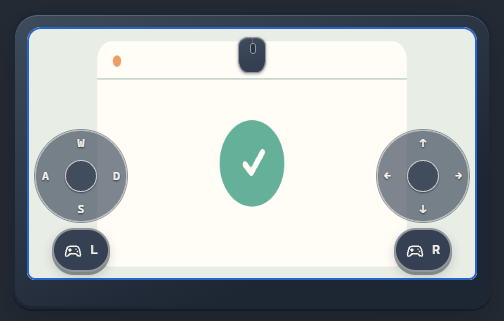
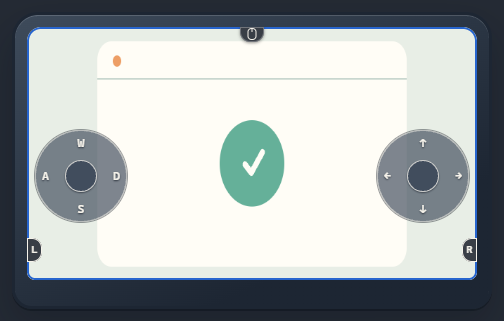
fix(remote): keep open joystick pads available when idle

Changed region(s): [[0.0298, 0.6854, 0.2381, 0.8723], [0.7738, 0.6854, 0.9524, 0.8723], [0.4464, 0.0623, 0.5357, 0.2492]]

diff --git a/src/client/components/living/remote-control.css b/src/client/components/living/remote-control.css
@@ -75,21 +75,22 @@
 }
 .lr-remote-keyboard-settings > summary { min-height: var(--control-compact-size); color: var(--ink); font-size: 13px; font-weight: 650; }
 .lr-remote-settings-fields { display: grid; padding-inline: 8px; }
-.lr-remote-settings-fields > :is(.lr-remote-shortcut, .lr-remote-stick-setting, .lr-switch-item) {
+.lr-remote-settings-fields > :is(.lr-remote-shortcut, .lr-switch-item) {
   display: grid; grid-template-columns: minmax(0, 1fr) auto; align-items: center;
   gap: 6px 14px; min-width: 0; min-height: var(--control-compact-size); margin: 0; padding: 6px 0;
 }
 .lr-remote-settings-fields > * + * { border-top: 1px solid var(--line); }
-.lr-remote-settings-fields :is(.lr-remote-shortcut label, .lr-remote-setting-label, .lr-switch-item > label) {
+.lr-remote-settings-fields > .lr-choice-field { padding-block: 8px; }
+.lr-remote-settings-fields :is(.lr-remote-shortcut label, .lr-switch-item > label) {
   display: inline-flex; align-items: center; gap: 6px; margin: 0;
   color: var(--ink); font-size: 13px; font-weight: 600; white-space: normal;
 }
-.lr-remote-settings-fields :is(.lr-remote-shortcut label, .lr-remote-setting-label) svg { flex: none; color: var(--muted); }
+.lr-remote-settings-fields .lr-remote-shortcut label svg { flex: none; color: var(--muted); }
 .lr-remote-settings-fields > .lr-switch-item > :is(svg, label) { grid-area: 1 / 1; }
 .lr-remote-settings-fields > .lr-switch-item > .lr-switch { grid-area: 1 / 2; justify-self: end; }
 .lr-remote-settings-fields > .lr-remote-game-mouse { margin: 0; justify-content: end; padding-block: 6px; }
 @container remote-keyboard-settings (max-width: 32ch) {
-  .lr-remote-settings-fields > :is(.lr-remote-shortcut, .lr-remote-stick-setting) { grid-template-columns: 1fr; justify-items: start; }
+  .lr-remote-settings-fields > .lr-remote-shortcut { grid-template-columns: 1fr; justify-items: start; }
 }
 .lr-remote-keyboard .lr-remote-key-pages { --selection-item-size: calc(var(--control-compact-size) - 12px); display: grid; grid-template-columns: repeat(var(--lr-segments), minmax(0, 1fr)); margin-bottom: 12px; }
 .lr-remote-keyboard .lr-remote-key-pages button { min-width: 0; padding: 4px 8px; }
@@ -196,9 +197,14 @@
 :is([data-reduced-motion], [data-comic-reduced-motion]) .lr-remote-mouse-widget,
 :is([data-reduced-motion], [data-comic-reduced-motion]) .lr-remote-mouse-widget > *,
 :is([data-reduced-motion], [data-comic-reduced-motion]) .lr-remote-mouse > .lr-remote-mouse-minimize { transition: none; }
-.lr-remote-direction { position: absolute; inset-inline-start: 8px; bottom: 8px; display: grid; justify-items: center; align-items: end; row-gap: 6px; pointer-events: none; }
-.lr-remote-direction[data-side="right"] { inset-inline-start: auto; inset-inline-end: 8px; }
-.lr-remote-direction > .lr-remote-stick { grid-row: 1; }
+.lr-remote-direction {
+  --stick-size: clamp(72px, 24vmin, 92px);
+  position: absolute; inset-inline-start: 0; bottom: 8px;
+  display: grid; grid-template-areas: "pad" "handle"; inline-size: calc(var(--stick-size) + 16px);
+  justify-items: center; align-items: center; row-gap: 6px; pointer-events: none;
+}
+.lr-remote-direction[data-side="right"] { inset-inline-start: auto; inset-inline-end: 0; }
+.lr-remote-direction > .lr-remote-stick { grid-area: pad; }
 .lr-remote-direction:not([data-docked]) > button {
   --control-hover-transform: none;
   --control-press-transform: none;
@@ -207,11 +213,11 @@
   justify-content: center;
 }
 .lr-remote-direction:not([data-docked]) > button > span { width: 1ch; text-align: center; font-family: var(--mono); }
-.lr-remote-direction > button { grid-row: 2; min-width: 44px; min-height: 44px; }
+.lr-remote-direction > button { grid-area: handle; min-width: var(--control-compact-size); min-height: var(--control-compact-size); }
 .lr-remote-direction > button, .lr-remote-stick { pointer-events: auto; touch-action: none; }
 .lr-remote-stick {
   position: relative;
-  width: clamp(72px, 24vmin, 92px);
+  width: var(--stick-size);
   aspect-ratio: 1;
   border-radius: 50%;
   background: rgb(var(--piik-dark-paper-rgb) / .64);
@@ -238,23 +244,27 @@
 }
 .lr-remote-stick[data-contact] i { border-color: currentColor; }
 
-.lr-remote-direction[data-docked="left"] { inset-inline-start: 0; }
-.lr-remote-direction[data-docked="right"] { inset-inline-end: 0; }
-.lr-remote-direction[data-docked]:not([data-touch-only]) { display: block; }
-.lr-remote-direction[data-touch-only][data-side="left"] > button { justify-self: start; }
-.lr-remote-direction[data-touch-only][data-side="right"] > button { justify-self: end; }
+.lr-remote-direction[data-docked="left"] > button { justify-self: start; }
+.lr-remote-direction[data-docked="right"] > button { justify-self: end; }
 /* Keep both edge pulls clear of the playback bar, including on narrow screens. */
-.lr-tv-screen:has(> .lr-playback) > .lr-remote-input-surface .lr-remote-direction[data-touch-only] {
+.lr-tv-screen:has(> .lr-playback) > .lr-remote-input-surface .lr-remote-direction {
+  --handle-width: calc(var(--control-compact-size) + 16px);
+  --stick-size: min(clamp(72px, 24vmin, 92px), calc(50cqw - var(--handle-width) - 8px));
   bottom: calc(var(--control-compact-size) + 24px);
-  column-gap: 4px;
+  inline-size: auto; column-gap: 4px;
+  grid-template: "handle pad" var(--stick-size) / var(--handle-width) var(--stick-size);
 }
-.lr-tv-screen:has(> .lr-playback) > .lr-remote-input-surface .lr-remote-direction[data-touch-only] > * { grid-row: 1; }
-.lr-tv-screen:has(> .lr-playback) > .lr-remote-input-surface .lr-remote-direction[data-touch-only][data-side="left"] > .lr-remote-stick,
-.lr-tv-screen:has(> .lr-playback) > .lr-remote-input-surface .lr-remote-direction[data-touch-only][data-side="right"] > button { grid-column: 2; }
+.lr-tv-screen:has(> .lr-playback) > .lr-remote-input-surface .lr-remote-direction[data-side="right"] {
+  grid-template-areas: "pad handle";
+  grid-template-columns: var(--stick-size) var(--handle-width);
+}
 .lr-remote-direction[data-touch-only] .lr-remote-stick {
   background: transparent;
   border-color: transparent;
   box-shadow: none;
+}
+.lr-remote-direction[data-touch-only]:not([data-docked]) .lr-remote-stick {
+  border-color: color-mix(in srgb, currentColor 52%, transparent);
 }
 .lr-remote-direction[data-touch-only] .lr-remote-stick > span { display: none; }
 .lr-remote-direction[data-touch-only] .lr-remote-stick > i {
@@ -265,7 +275,7 @@
   box-shadow: 0 0 0 1px var(--piik-dark-wall);
 }
 .lr-remote-direction[data-touch-only] .lr-remote-stick[data-contact] > i { visibility: visible; }
-.lr-remote-direction[data-touch-only] .lr-remote-stick-wake[aria-expanded="true"]::before {
+.lr-remote-stick-wake[aria-expanded="true"]::before {
   box-shadow: inset 0 0 0 1px var(--piik-dark-ink);
 }
 .lr-remote-direction > .lr-remote-stick-wake {

diff --git a/src/client/components/living/RemoteDirectionPad.tsx b/src/client/components/living/RemoteDirectionPad.tsx
@@ -13,19 +13,17 @@ export function RemoteDirectionPad({ right = false, touchOnly = false, keyboard,
   const thumb = useRef<HTMLElement>(null);
   const contact = useRef<number | null>(null);
   const [docked, setDocked] = useState(false);
-  const parked = docked && !touchOnly;
   const idle = useRef<ReturnType<typeof setTimeout> | undefined>(undefined);
   const park = useCallback(() => {
     clearTimeout(idle.current);
-    if (touchOnly) return;
     idle.current = setTimeout(() => {
       if (contact.current === null && !group.current?.querySelector(":focus-visible")) setDocked(true);
     }, PLAYER_CONTROLS_IDLE_MS);
-  }, [touchOnly]);
+  }, []);
   useEffect(() => {
-    if (!parked) park();
+    park();
     return () => clearTimeout(idle.current);
-  }, [park, open, parked]);
+  }, [park]);
   const label = t(right ? (keyboard ? "remote.mouseStick" : "remote.rightStick") : (keyboard ? "remote.directionPad" : "remote.leftStick"));
   const release = useCallback(() => {
     if (contact.current === null) return;
@@ -37,7 +35,7 @@ export function RemoteDirectionPad({ right = false, touchOnly = false, keyboard,
     pad.current?.style.removeProperty("--stick-y");
   }, [onMove]);
   useEffect(() => {
-    if (!open || parked) return;
+    if (!open) return;
     const doc = pad.current!.ownerDocument;
     const visibility = () => { if (doc.hidden) release(); };
     doc.defaultView?.addEventListener("blur", release);
@@ -47,7 +45,7 @@ export function RemoteDirectionPad({ right = false, touchOnly = false, keyboard,
       doc.removeEventListener("visibilitychange", visibility);
       release();
     };
-  }, [release, open, parked, touchOnly]);
+  }, [release, open]);
   function move(e: PointerEvent<HTMLDivElement>) {
     if (contact.current !== e.pointerId) return;
     const rect = e.currentTarget.getBoundingClientRect();
@@ -67,13 +65,13 @@ export function RemoteDirectionPad({ right = false, touchOnly = false, keyboard,
   }
   return <div ref={group} onFocus={() => clearTimeout(idle.current)} onBlur={park}
     onPointerDownCapture={() => clearTimeout(idle.current)} onPointerUpCapture={park} onPointerCancelCapture={park}
-    data-docked={parked || touchOnly ? (right ? "right" : "left") : undefined} data-touch-only={touchOnly || undefined}
+    data-docked={docked ? (right ? "right" : "left") : undefined} data-touch-only={touchOnly || undefined}
     className="lr-remote-direction" data-side={right ? "right" : "left"}>
-    <button type="button" className={parked || touchOnly ? "lr-remote-stick-wake" : "lr-btn is-compact"} aria-label={label} aria-expanded={open && !parked}
-      onClick={() => parked ? setDocked(false) : toggleOpen()}><Glyph name="gamepad" size={20} /><span aria-hidden="true">{right ? "R" : "L"}</span></button>
-    {open && !parked && <div ref={pad} className="lr-remote-stick" role="group" aria-label={label}
+    <button type="button" className={docked ? "lr-remote-stick-wake" : `lr-btn is-compact${open ? " is-on" : ""}`} aria-label={label} aria-expanded={open}
+      onClick={() => { setDocked(false); toggleOpen(); park(); }}><Glyph name="gamepad" size={20} /><span aria-hidden="true">{right ? "R" : "L"}</span></button>
+    {open && <div ref={pad} className="lr-remote-stick" role="group" aria-label={label}
       onPointerDown={e => {
-        if (contact.current !== null || e.button !== 0 || (touchOnly && e.pointerType !== "touch")) return;
+        if (contact.current !== null || e.button !== 0) return;
         e.preventDefault();
         contact.current = e.pointerId;
         e.currentTarget.setAttribute("data-contact", "");

diff --git a/src/client/pages/ControlsPreview.tsx b/src/client/pages/ControlsPreview.tsx
@@ -1,6 +1,6 @@
 import { useLayoutEffect, useRef, useState } from "react";
 import type { VideoFit, VideoRotation } from "../media/video-geometry";
-import { BackButton, Btn, Chip, FieldCap, NameTag, Pill, SwitchItem } from "../components/living/primitives";
+import { BackButton, Btn, Chip, FieldCap, NameTag, Pill, SegmentedChoice, SwitchItem } from "../components/living/primitives";
 import { Lcd, RoomChip, RoomCodePlaceholder, RoomAdmissionBadge } from "../components/living/RoomChip";
 import { CaptureSourcePicker, type NativeSourceList } from "../components/living/CaptureSourcePicker";
 import { LedStrip } from "../components/living/Header";
@@ -84,6 +84,7 @@ export function ControlsPreview() {
   const [launchPassword, setLaunchPassword] = useState("");
   const [launchLan, setLaunchLan] = useState("192.0.2.10");
   const [policy, setPolicy] = useState<"open" | "private">("open");
+  const [architecture, setArchitecture] = useState<"amd64" | "arm64">("amd64");
   const [roomPassword, setRoomPassword] = useState(false);
   const [inviteAvailable, setInviteAvailable] = useState(true);
   const [includeCredential, setIncludeCredential] = useState(true);
@@ -255,11 +256,8 @@ export function ControlsPreview() {
           comic="hint-policy-private" label={t("host.invite.credentialRequired")} /> : null}
         <p>{en ? "The website's architecture picker uses the same sliding style with native radio buttons. Arrow keys change the choice."
           : "官网的架构选择也复用滑动样式，使用原生单选项；聚焦后可用方向键切换。"}</p>
-        <fieldset className="lr-toggle">
-          <legend className="visually-hidden">{en ? "Download architecture" : "下载架构"}</legend>
-          <label><input type="radio" name="preview-architecture" value="amd64" defaultChecked /><span>x64</span></label>
-          <label><input type="radio" name="preview-architecture" value="arm64" /><span>ARM64</span></label>
-        </fieldset>
+        <SegmentedChoice label={en ? "Download architecture" : "下载架构"} value={architecture} onChange={setArchitecture}
+          options={[{ value: "amd64", label: "x64" }, { value: "arm64", label: "ARM64" }]} />
       </section>
       <section id="input-preview" className="cp-card">
         <header><span className="cp-number">03</span><h2>{en ? "Names, codes and small details" : "名字、房间号，还有小细节。"}</h2></header>

diff --git a/src/client/components/living/primitives.tsx b/src/client/components/living/primitives.tsx
@@ -36,21 +36,24 @@ export function Cap({ k }: { k: CopyKey }) {
 }
 
 export function SegmentedChoice<T extends string>({ label, describedBy, options, value, onChange }: {
-  label: CopyKey;
+  label: string;
   describedBy?: string;
-  options: readonly { value: T; label: CopyKey; icon: GlyphName }[];
+  options: readonly { value: T; label: string; icon?: GlyphName }[];
   value: T;
   onChange: (value: T) => void;
 }) {
   const name = useId();
-  const { t } = useCopy();
-  return <div className="lr-toggle" role="radiogroup" aria-label={t(label)} aria-describedby={describedBy}
-    style={{ "--lr-segments": options.length, "--lr-selected-index": options.findIndex(option => option.value === value) } as CSSProperties}>
-    {options.map(option => <label key={option.value}>
-      <input type="radio" name={name} value={option.value} aria-label={t(option.label)}
-        checked={value === option.value} onChange={() => onChange(option.value)} />
-      <span><Glyph name={option.icon} size={17} /><Cap k={option.label} /></span>
-    </label>)}
+  const { vis } = useCopy();
+  return <div className="lr-choice-field">
+    <span id={name + "-label"} className={vis ? "visually-hidden" : "lr-field-cap"}>{label}</span>
+    <div className="lr-toggle" role="radiogroup" aria-labelledby={name + "-label"} aria-describedby={describedBy}
+      style={{ "--lr-segments": options.length, "--lr-selected-index": options.findIndex(option => option.value === value) } as CSSProperties}>
+      {options.map(option => <label key={option.value}>
+        <input type="radio" name={name} value={option.value} aria-label={option.label}
+          checked={value === option.value} onChange={() => onChange(option.value)} />
+        <span>{option.icon && <Glyph name={option.icon} size={17} />}{(!vis || !option.icon) && option.label}</span>
+      </label>)}
+    </div>
   </div>;
 }
 

diff --git a/src/client/pages/RemoteControlsPreview.tsx b/src/client/pages/RemoteControlsPreview.tsx
@@ -112,8 +112,8 @@ export function RemoteControlsPreview({ joystick = false, guide = false, guidePo
   return <>{!joystick && <PermissionRequestPreview />}<section id={joystick ? "joystick-preview" : "remote-control-preview"} className="cp-section">
     {!guide && <header className="cp-section-head"><div>
       <h2>{joystick ? (en ? "Touch joysticks" : "触屏双摇杆") : t("remote.inputTools")}</h2>
-      {joystick ? <p>{en ? "Open L and R to try both sticks. Open Remote keyboard and use Stick mode to switch between keys and mouse or gamepad. Input stays on this page."
-        : "点 L、R 可分别展开摇杆。在远程键盘的「摇杆模式」中切换键鼠或手柄。输入仅显示在本页。"}</p>
+      {joystick ? <p>{en ? "Tap L or R to open a pad. Its button tucks away when idle. Drag either pad to try it, or tap its button again to close it. Change the mapping under Remote keyboard → Local controls."
+        : "点 L 或 R 打开杆盘。按钮贴边后仍可拖动杆盘，再点按钮就关闭。在「远程键盘 → 本机控制」中可切换键鼠或手柄。"}</p>
         : <p>{en ? "Expand the mini mouse and drag its lower half to move the pointer. Hold and move L or R to drag, or hold a button with one finger and move the lower half with another. Pinch or pan the picture with two fingers to adjust the local view. Tap the wheel to middle-click, swipe to scroll, or hold to drag. Try direct touch or the compact trackpad below. Input stays in the local log."
         : "展开迷你鼠标，拖动下半部移动光标。按住 L 或 R 后移动即可拖拽，也可用一指按住按钮、另一指拖动下半部。在画面上双指缩放或平移可调整本地视图。滚轮可轻点中击、滑动滚动、长按后拖动。下方可切换直接触摸或光标触控板，输入仅记录在本地。"}</p>
         }

diff --git a/src/client/components/living/RemoteKeyboard.tsx b/src/client/components/living/RemoteKeyboard.tsx
@@ -217,13 +217,10 @@ export function RemoteKeyboard({ input, close, mouseControl, touch, platform, on
       </summary>
       <div className="lr-remote-settings-fields">
         <RemoteShortcutSelect value={releaseKey} onChange={onReleaseKeyChange} mac={navigator.platform.startsWith("Mac")} />
-        {stickMode && <div className="lr-remote-stick-setting">
-          <span className="lr-remote-setting-label"><Glyph name="gamepad" size={16} />{vis ? null : t("remote.stickMode")}</span>
-          <SegmentedChoice label="remote.stickMode" value={stickMode.value} onChange={stickMode.onChange} options={[
-            { value: "keyboard", label: "remote.keyboardMouseMode", icon: "keyboard" },
-            { value: "gamepad", label: "remote.gamepadMode", icon: "gamepad" },
-          ]} />
-        </div>}
+        {stickMode && <SegmentedChoice label={t("remote.stickMode")} value={stickMode.value} onChange={stickMode.onChange} options={[
+          { value: "keyboard", label: t("remote.keyboardMouseMode"), icon: "keyboard" },
+          { value: "gamepad", label: t("remote.gamepadMode"), icon: "gamepad" },
+        ]} />}
         {stickVisibility && <SwitchItem label={t("remote.stickShowOnTouch")} icon="gamepad"
           checked={stickVisibility.checked} onChange={stickVisibility.onChange} />}
         {!panelWindow.detached && mouseControl}

diff --git a/src/client/components/living/PlaybackSettings.tsx b/src/client/components/living/PlaybackSettings.tsx
@@ -65,13 +65,10 @@ export function RemoteTouchSettings({ mode, onChange }: NonNullable<PlaybackSett
   const id = useId();
   const hint = mode === "direct" ? "remote.touchMode.directHint" : "remote.touchMode.trackpadHint";
   return <section aria-label={t("remote.touchMode")}>
-    <div className="lr-viewer-settings-heading">
-      <h3><Glyph name="mouse" size={17} /><span className={vis ? "visually-hidden" : undefined}>{t("remote.touchMode")}</span></h3>
-    </div>
-    <SegmentedChoice label="remote.touchMode" describedBy={vis ? undefined : `${id}-hint`}
+    <SegmentedChoice label={t("remote.touchMode")} describedBy={vis ? undefined : `${id}-hint`}
       value={mode} onChange={onChange} options={[
-        { value: "direct", label: "remote.touchMode.direct", icon: "tv" },
-        { value: "trackpad", label: "remote.touchMode.trackpad", icon: "mouse" },
+        { value: "direct", label: t("remote.touchMode.direct"), icon: "tv" },
+        { value: "trackpad", label: t("remote.touchMode.trackpad"), icon: "mouse" },
       ]} />
     {!vis && <p id={`${id}-hint`}>{t(hint)}</p>}
   </section>;

diff --git a/src/client/components/living/segmented-control.css b/src/client/components/living/segmented-control.css
@@ -1,5 +1,6 @@
 /* One track for language, settings and source tabs, including native radio
    groups. Callers own semantics, selection and content-specific proportions. */
+.lr-choice-field { display: grid; gap: 6px; min-width: 0; }
 .lr-toggle, .lr-lang {
   --lr-segments: 2;
   --lr-selected-index: 0;

diff --git a/docs/guide/remote-control.md b/docs/guide/remote-control.md
@@ -94,9 +94,9 @@ remain available without the gamepad driver.
 
 On a touchscreen, tap **Request control** in the playback bar. If the host approves requests individually, wait for them to select **Allow**. Once you have control, **L** and **R** appear on the playing picture. Touchscreen laptops work too.
 
-Tap **L** or **R** to open that stick. Lift your finger to center it while continuing to hold the other. Each stick slips to the edge after two seconds of inactivity. Tap its visible edge once to bring it back as you left it.
+Tap **L** or **R** to open that stick. Tap again to close it. Lift your finger to center the stick. When idle, the L and R buttons tuck against the picture edge. Each open pad stays in place and is ready for your next drag.
 
-To keep idle sticks transparent, turn on **Remote keyboard → Local controls → Show on touch**, then tap **L** or **R** to enable that side. Only the small stick thumb appears under your finger. Lift to hide it. Tap the same edge control again to close that stick and use ordinary touch input there.
+For a clearer view of the picture, turn on **Remote keyboard → Local controls → Show on touch**. Tap L or R and a thin ring briefly marks the pad. Press there to show the thumb and lift to hide it. Tap the same button again to restore ordinary touch input there.
 
 Open **Remote keyboard → Local controls → Stick mode** to set both sticks. In **Keys + mouse**, the left stick holds W, A, S or D and the right stick moves the mouse. When the Host supports gamepad input and the Viewer has no physical gamepad connected, choose **Gamepad** to send left and right stick input. Closing a stick, leaving the page or disconnecting releases the affected inputs. After reconnecting, select **Request control** again.
 

diff --git a/docs/guide/remote-control.zh-CN.md b/docs/guide/remote-control.zh-CN.md
@@ -73,9 +73,9 @@ Piik 不指定游戏中的玩家编号，请使用游戏自己的加入和分配
 
 在触摸屏上观看可远控的画面时，点播放栏里的 **请求控制**。如果房主设置了每次询问，等房主点 **允许控制**。取得控制权后，正在播放的画面下方会出现 **L** 和 **R**。带触摸屏的电脑也可以使用。
 
-点 **L** 或 **R** 展开对应的摇杆。松开手指后，这根摇杆会回中；另一根仍可继续按住。闲置两秒后摇杆会贴到画面边缘。点一下露出的边沿，就会恢复贴边前的状态。
+点 **L** 或 **R** 打开对应的摇杆，再点一次就关闭。松手后摇杆回中。闲置时，L、R 按钮会贴到画面边缘，打开的杆盘留在原位，可以继续拖动。
 
-想让摇杆平时透明，打开 **远程键盘 → 本机控制 → 仅触摸时显示**，再点 **L** 或 **R** 启用对应一侧。手指按住时只显示小摇杆头，松手就消失。点同一侧的边缘按钮可关闭摇杆，让这块画面恢复普通触控。
+想少遮一点画面，打开 **远程键盘 → 本机控制 → 仅触摸时显示**。点 L 或 R 时，细圈会短暂标出杆盘的位置。按住这个位置就能看到杆头，松手后它会隐藏。再点同一侧的按钮，这块画面就恢复普通触控。
 
 打开 **远程键盘 → 本机控制 → 摇杆模式** 可同时设置两根摇杆。**键鼠** 模式用左杆控制 W、A、S、D，右杆移动鼠标。房主支持手柄输入且观众没有连接实体手柄时，可以选 **手柄**，直接发送左右摇杆输入。收起摇杆、切出页面或连接中断都会释放相应输入。重新连接后，请再次点击 **请求控制**。
 

diff --git a/docs/standards/presentation-lifecycle.md b/docs/standards/presentation-lifecycle.md
@@ -252,12 +252,11 @@ follow the shared [motion grammar](./visual-language.md#motion-grammar).
 
 On touch devices, the two on-screen sticks are available while the current
 picture is playing and its authorized remote-control channel is ready. The
-left and right sticks start collapsed and expand independently. Idle sticks
-and the mini mouse tuck to the picture edge on the playback controls' timing.
-The stick thumb, direction marks and toggle share a centerline. In Show on
-touch mode, each opened side retains its hit area between touches and shows
-the thumb while held. Closing that side restores ordinary picture input there.
-In standard mode, tapping a parked handle brings its control back.
+left and right sticks start closed. Each L/R button toggles its pad in one
+tap, including from the picture edge. On the playback controls' idle timer
+only the buttons tuck away. Each open pad keeps its position and input area.
+In Show on touch mode, the pad briefly shows its outline when opened and
+shows the thumb while pressed. Closing that side restores ordinary picture input there.
 Remote keyboard owns the mapping for both sticks. Keyboard and mouse mode
 sends WASD and relative mouse movement. When a virtual gamepad is available,
 the viewer can select its left and right axes. A connected physical gamepad
